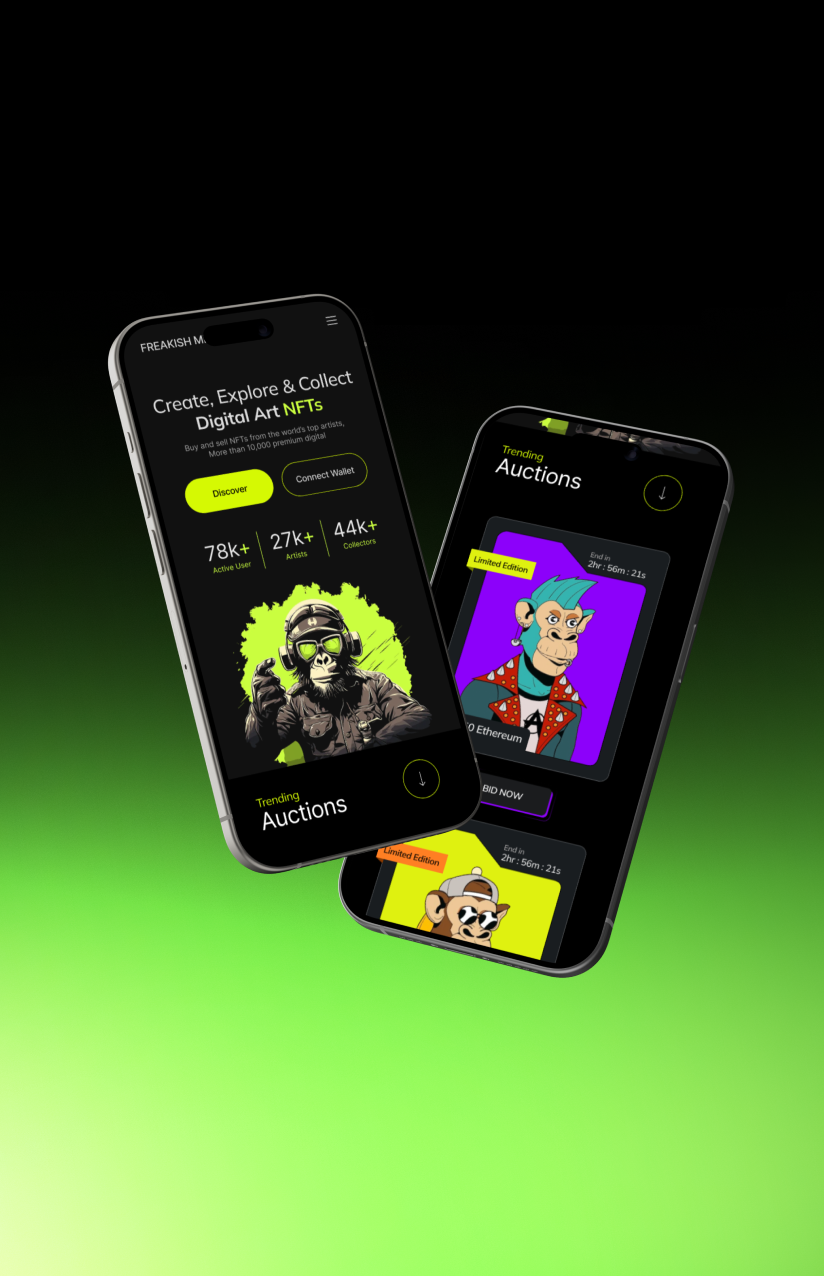
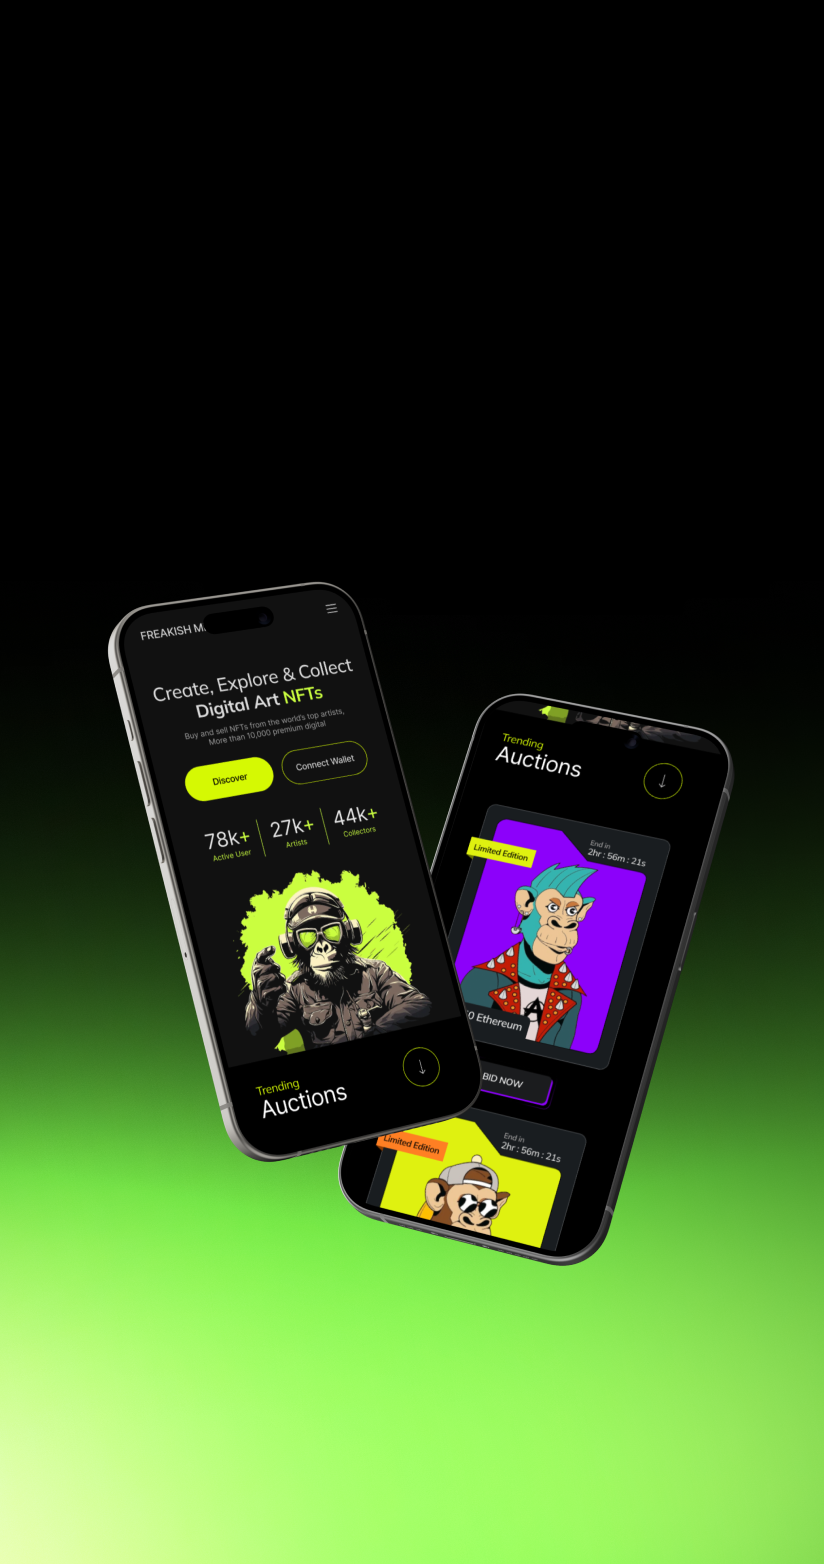
modefied images to make it compatible for parallax effect

diff --git a/src/Components/GridGallery/GridGallery.module.css b/src/Components/GridGallery/GridGallery.module.css
@@ -37,7 +37,7 @@
 .testimonial {
   aspect-ratio: 412/335;
   grid-area: testimonial;
-  background-color: rgb(222, 131, 255);
+  background-color: #3c289d;
 }
 
 @media (min-width: 1024px) {
@@ -56,7 +56,7 @@
   }
 }
 
-@media (min-width: 1024px) {
+@media (min-width: 1280px) {
   .gridContainer {
     padding: 0 220px;
   }
